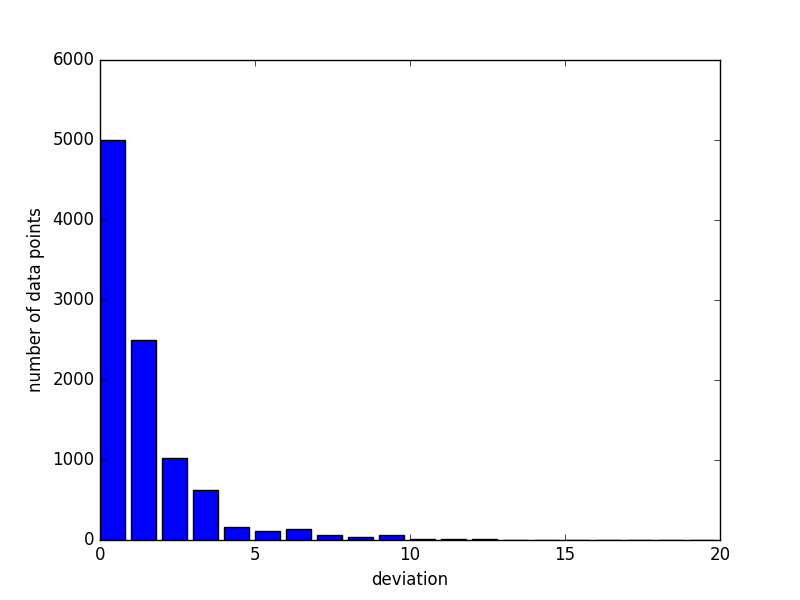
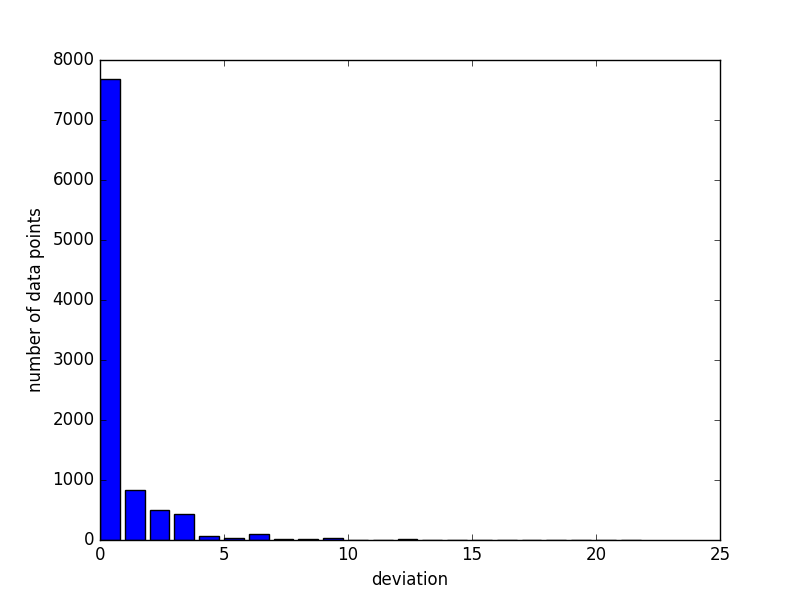
--all

diff --git a/dataset/fixed_seed.py b/dataset/fixed_seed.py
@@ -33,7 +33,7 @@ d = np.zeros(seed_iteration)
 index = 0
 seed = 90001
 
-adam = Adam(lr=0.002)
+adam = Adam(lr=0.0005)
 
 
 def check_result(x, y):
@@ -84,7 +84,7 @@ model.add(Dense(units=100, kernel_initializer='random_normal', bias_initializer=
 model.add(Dense(units=100, kernel_initializer='random_normal', bias_initializer='random_normal', activation='sigmoid'))
 model.add(Dense(units=9, activation='relu', kernel_initializer='random_normal', bias_initializer='random_normal'))
 model.compile(loss='mean_squared_error',optimizer=adam)
-history = model.fit(x_data_train, y_data_train, batch_size=128, epochs=200)
+history = model.fit(x_data_train, y_data_train, batch_size=128, epochs=3000)
 
 # test loss
 test_loss = model.evaluate(x_data_test, y_data_test)
